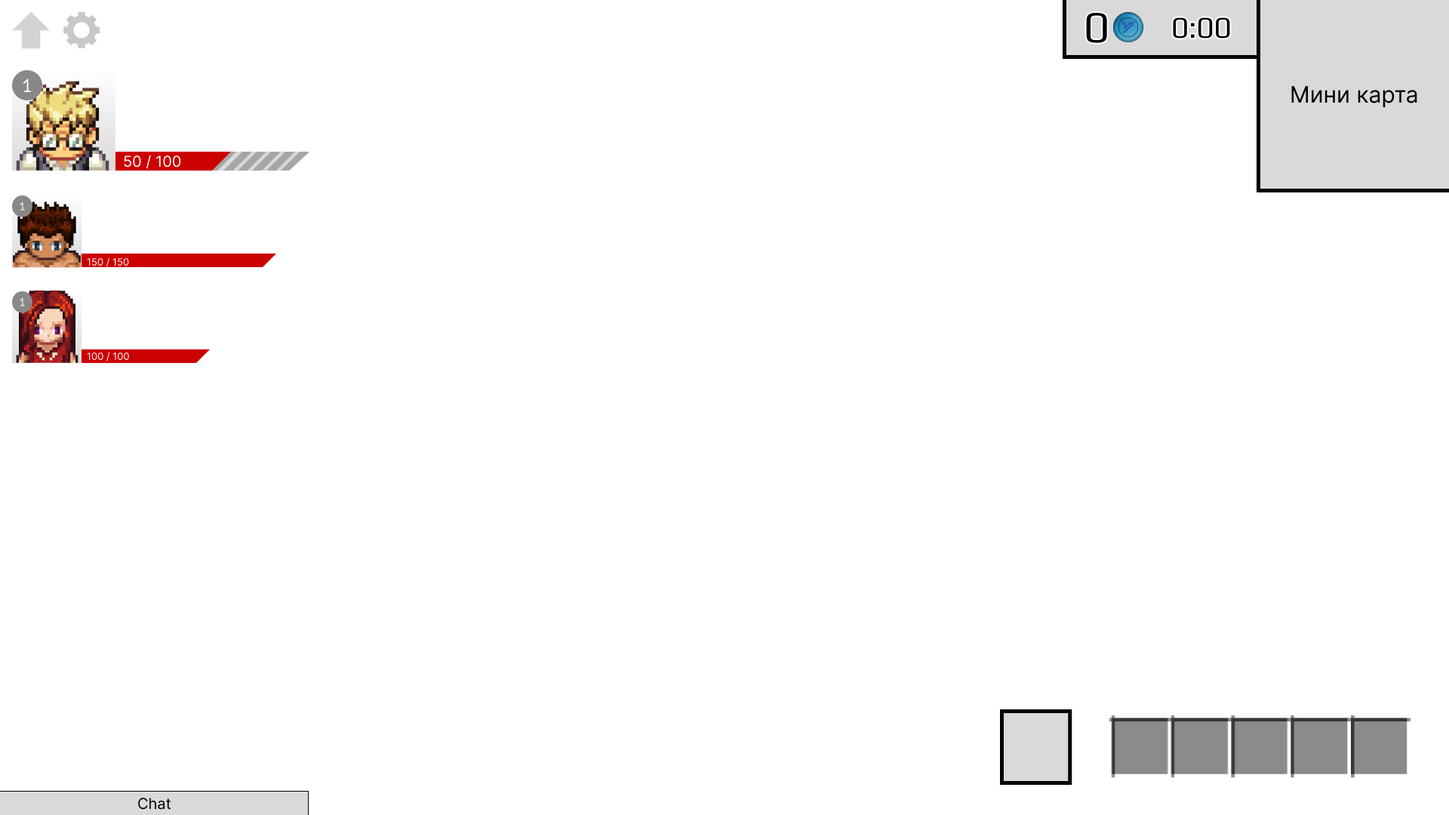
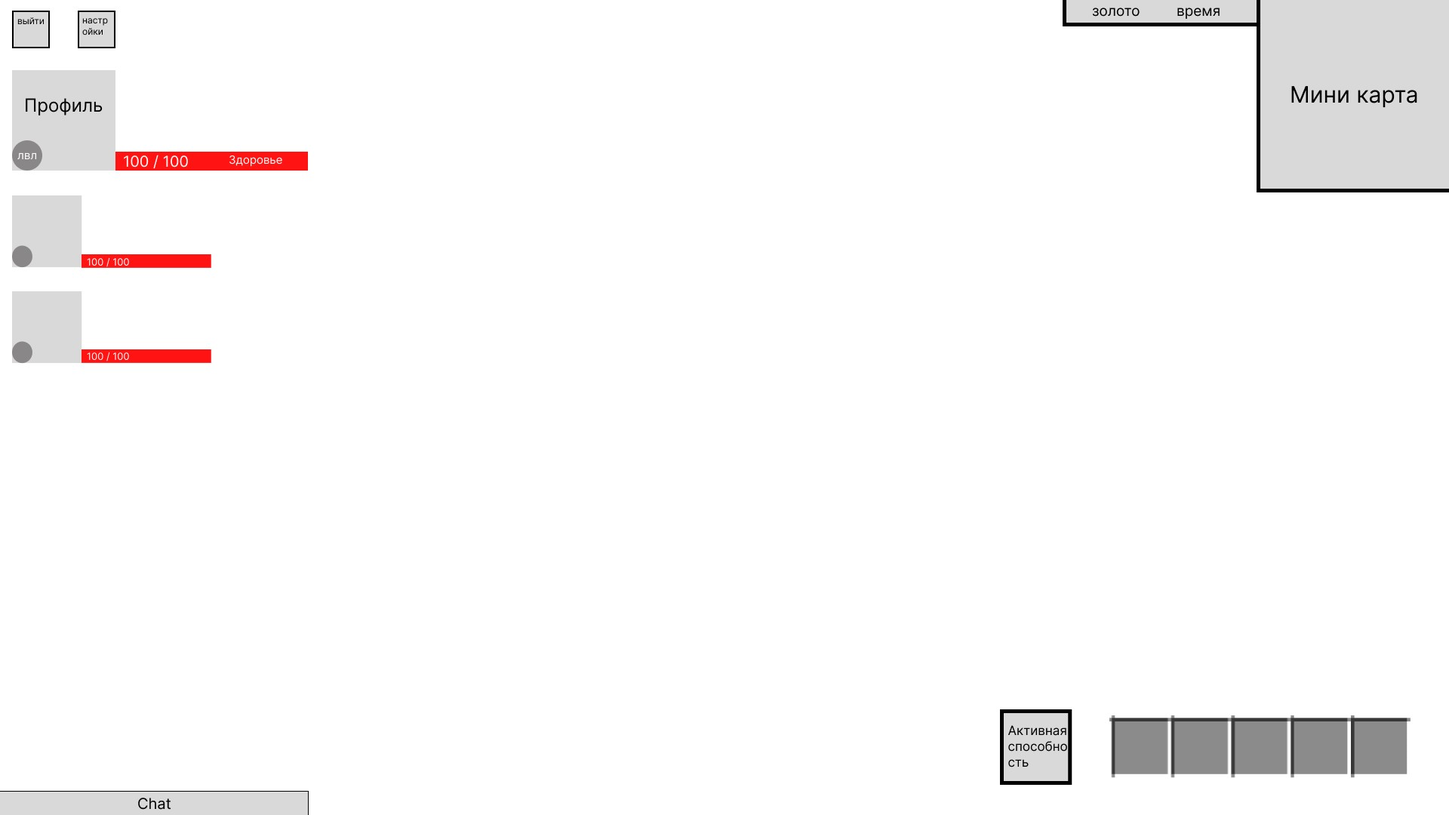
Revert "Merge pull request #16 from Smo7e/task_0"
This reverts commit 8db06d0e6c88ece269e7844d331fe062ccef9fbd, reversing
changes made to 55f844beefd23a6f4ae2d5e6fb81e23b018f7687.

Changed region(s): [[0.0, 0.0, 0.2188, 0.4583], [0.7188, 0.0, 0.875, 0.0917], [0.6875, 0.8861, 0.75, 0.9472]]

diff --git a/documents/TZ.md b/documents/TZ.md
@@ -6,28 +6,22 @@
 1. Термины и определения
 2. Цели и задачи
 3. Интерфейс
-    * 3.1. Экран входа
-    * 3.2. Экран регистрации
-    * 3.3. Главное меню
-    * 3.4. Лобби
-    * 3.5. Игровой интерфейс
+   3.1 Экран входа
+   3.2 Экран регистрации
+   3.3 Главное меню
+   3.4 Лобби
+   3.5 Игровой интерфейс
 4. Игровой процесс
-   * 4.1. Общая концепция
-   * 4.2. Геймплей
-   *  4.3. Герои
-   *  4.4. Предметы
-      * 4.4.1 Список предметов
-      * 4.4.2 Багетница
-   *  4.5. Враги
-   *  4.6. Мультиплеер
-   *  4.7. Система уровней
+   4.1 Общая концепция
+   4.2 Геймплей
+   4.3 Герои
+   4.4 Предметы
+   4.5 Враги
+   4.6 Мультиплеер
+   4.7. Система уровне
 5. Пользовательские сценарии
-        
 
-### Версия документа(обновляется по ходу разработки): 
-1.0 (15.10.23) Документ создан и наполнен
-
-1.1 (16.10.23) Исправлены баги в разделах 1, 3.2, 3.3, 5 (текущая)
+### Версия документа: 1.0 (будет дополняться по ходу разработки)
 
 ## 1. Термины и определения
 - Игрок – пользователь, вошедший в игру
@@ -37,7 +31,9 @@
 - Пара – основной противник игрока, существует несколько типов, каждый из которых привязан к одной из учебных дисциплин.
 - Препод – финальный противник каждого курса
 - Багетница – игровой магазин
-- Характеристики – индивидуальные для каждого героя параметры, влияю-=-
+- Зачетка – 
+- Характеристики – индивидуальные для каждого героя параметры, влияющие на его здоровье и урон
+- Биржа –
 - Предмет – игровой объект, которой можно получить посредством победы над противниками. Улучшает различные характеристики героев или восстанавливает здоровье
 - УДгУкоин – игровая валюта, дается за каждого побежденного противника.
 - Лобби - игровой интерфейс, который служит переходным этапом между меню и игрой. Здесь можно приобрести предметы за игровую валюту
@@ -47,7 +43,6 @@
 
 ## 2. Цели и задачи
 Цель - реализовать веб-приложение в рамках учебного проекта.
-
 Задачи:
 - Грамотно распределить задачи, чтобы соблюдать все дедлайны.
 - Реализовать клиентскую часть проекта.
@@ -71,7 +66,6 @@
 
 ![](images/TZ/image6.png)
 
-
 ### 3.2 Экран регистрации
 Состоит из четырех полей ввода:
 - Логин
@@ -85,20 +79,7 @@
 - “Уже есть аккаунт”
 
 ![](images/TZ/image4.png)
-Требования к логину:
-1. Логин должен начинаться с буквы и состоять не менее чем из 5 символов и не более чем из 12 символов.
-2. При создании логина можно использовать латинские буквы, цифры, подчеркивания (_) и точки (.).
-3. Знак @ в логине недопустим.
-4. Пробел в логине недопустим.
-5. Логин не может заканчиваться точкой.
 
-Требования к паролю:
-1. Содержит не менее 8 символов.
-2. Содержит символы, набранные в разных регистрах.
-3. Помимо латинских букв, содержит также цифры и/или специальные символы.
-4. Не является персональной информацией (имена, адреса, дата рождения, телефон и т.п.)
-
-   
 ### 3.3 Главное меню
 В левой части меню расположены кнопки:
 - Играть
@@ -106,8 +87,7 @@
 - Параметры
 
 В правой части расположен интерфейс, который отображает добавленных друзей и их текущий статус (“В сети” или “Не в сети”).
-Внизу этого интерфейса расположена кнопка "+" позволяющая добавлять в друзья других пользователей.
-Чтобы добавить друга пользователь должен нажать на эту кнопку и ввести в появившемся окне с полем ввода никнейм игрока которго хочет добавить в друзья.
+Внизу этого интерфейса расположена кнопка позволяющая добавлять в друзья других пользователей.
 
 ![](images/TZ/image5.png)
 
@@ -117,13 +97,12 @@
   - Здесь отображается текущий состав команды, выбранный каждым игроком герой, а также предметы игрока.
   - Друзья приглашаются в команду посредством кнопки “+”.
 - “Багетница”
-
-А также две кнопки “Играть” и “<-” в правом нижнем и левом верхнем углах соответственно.
+  - А также две кнопки “Играть” и “<-” в правом нижнем и левом верхнем углах соответственно.
   - “Играть” - запускает игровую сессию.
   - “<-” - возвращает назад в меню.
 
 
-![](images/TZ/image11.png)
+![](images/TZ/image7.png)
 
 ## 3.5 Игровой интерфейс
 Интерфейс игры предоставляет игроку информацию о:
@@ -163,37 +142,21 @@
 
 ### 4.3 Герои
 В игре представлено три персонажа: “Спортик”, “Технарь” и “Гуманитарий”. Каждый из них имеет собственные характеристики:
-- “Спортик”
-![](images/TZ/image9.png)
 
-- “Гуманитарий”
-![](images/TZ/image12.png)
-
-- “Технарь”
-![](images/TZ/image13.png)
-
-### 4.4 Предметы
-#### 4.4.1 Список предметов
 | Предмет                        | Тип предмета | С каких пар выпадает               | Что даёт                                           |
 | ------------------------------- | ------------ | ----------------------------------- | -------------------------------------------------- |
 | Айфон                           | Гаджет       | “Программирование”                 | Увеличивает урон по “Программированию” на 15 единиц |
 | Спортивки                       | Одежда       | “Физра”                            | Увеличивает постоянное здоровье на 15 единиц        |
-| Пиво                            | Расходник    | Багетница                          | Восстанавливает здоровье на 15 единиц, на время боя увеличивает максимальное здоровье на 20 единиц |
-| Энергос                         | Расходник    | Багетница                          | Восстанавливает здоровье на 15 единиц, увеличивает урон следующей атаки на 10 |
+| Пиво                            | Расходник    | Со всех                            | Восстанавливает здоровье на 15 единиц, на время боя увеличивает максимальное здоровье на 20 единиц |
+| Энергос                         | Расходник    | Со всех                            | Восстанавливает здоровье на 15 единиц, увеличивает урон следующей атаки на 10 |
 | Учебник                         | Книга        | “Программирование”, “Математика”, “Русский язык”, “Английский язык” | Увеличивает урон по всем парам кроме “Физра” на 5 единиц |
-| Сигареты                        | Расходник    | Багетница                          | Уменьшает текущее здоровье на 20, но на время боя увеличивает урон каждой атаки на 10 |
+| Сигареты                        | Расходник    | Со всех                            | Уменьшает текущее здоровье на 20, но на время боя увеличивает урон каждой атаки на 10 |
 | Кофта “Stone Island”            | Одежда       | “Физра”                            | Увеличивает максимальное здоровье на 15 |
 | Калькулятор                     | Гаджет       | “Математика”                       | Увеличивает урон по “Математике” на 15 единиц |
-| Словарь                         | Книга        | “Русский язык”, “Английский язык”  | Увеличивает урон по “Русскому языку” и “Английскому языку” на 10 единиц |
+| Словарь                         | Книга        | “Русский язык”, “Английский язык” | Увеличивает урон по “Русскому языку” и “Английскому языку” на 10 единиц |
 | Ноутбук                         | Гаджет       | “Программирование”, “Математика”   | Увеличивает урон по “Программированию” и “Математике” на 10 единиц |
-| Багет                           | Расходник    | Багетница                          | Восстанавливает здоровье на 25 единиц |
-| Сосиска в тесте                 | Расходник    | Багетница                          | Восстанавливает здорвоье на 15 единиц |
 
 Герой может одновременно носить с собой до 5 предметов в инвентаре
-#### 4.4.2 Багетница
-Помимо предметов, после победы над врагами, игроки также получают валюту(УДгУкоины), которую можно потратить в Багетнице
-В багетнице можно преобрести любой предмет типа “расходник” за. Стоимость любого предмета - 5 УДгУкоинов
-Любой предмет в Багетнице можно купить лишь единожды, счетчик покупок сбрасывается с переходом на новый курс.
 
 ### 4.5 Враги
 Игровые противники представлены в виде пар по учебным дисциплинам
@@ -205,7 +168,7 @@
 - "Физра"
 
 Все пары имеют одинаковые характеристики: 75 единиц здоровья и 20 урона.
-“Препод” имеет 150 здоровья и 35 урона
+
 Бой начинается как только игрок приблизится вплотную ко врагу.
 Наносить удары можно после того как дан правильный ответ на тематический вопрос (у "Программирование" вопросы про программирование, у "Математика" про математику и тд.)
 Если дан неправильный ответ, то враг наносит удар по игроку.
@@ -216,9 +179,6 @@
 ![](images/TZ/image2.png)
 
 ![](images/TZ/image1.png)
-В каждой комнате находится от 2 до 4 противников на игрока, т.е. если в команде трое игроков, то стоит ожидать от 6 до 12 врагов
-В сражении с преподом участвуют все игроки из команды, соответственно здоровье босса увеличивается прямо пропорционально количеству игроков.
-
 
 ### 4.6 Мультиплеер
 Игрок может собрать команду из трех человек, пригласив их в свое лобби из френдлиста.
@@ -232,7 +192,7 @@
 ### 4.7 Система уровней
 В игре присутствуют уровни персонажей. Каждый новый уровень дает прибавку к урону и здоровью на 5 единиц.
 Чтобы повышать уровни нужно побеждать врагов.
-Максимальный уровень героя - 5.
+Максимальный уровень героя - 5
 | Уровень | Сколько нужно победить противников для получения |
 | ------- | ----------------------------------------------- |
 | 1       | 0                                               |
@@ -241,78 +201,6 @@
 | 4       | 25                                              |
 | 5       | 40                                              |
 
-Любой босс считается за пятерых противников.
+Любой босс считается за пятерых противников
 
 ### 5. Пользовательские сценарии
-#### Вход в игру:
-Пользователь заходит на сайт.
-1. Если пользователь зарегистрирован, то он вводит логин и пароль и нажимает на кнопку входа в игру.
-2. Если пользователь не зарегистрирован, то он нажимает на кнопку регистрации. Регистрируется и выполняет шаг 1.
-
-#### Выход из игры:
-Пользователь выходит в главное меню и закрывает страницу сайта.
-
-#### Выбор героя:
-Пользователь находится в главном меню:
-1. Пользователь нажимает кнопку “Играть”.
-2. Пользователь попадает в игровое лобби.
-3. Изначально выбран случайный персонаж, чтобы его поменять пользователь нажимает на “<” или “>” слева и справа от выбранного персонажа соответственно.
-4. Когда пользователь выбрал нужного персонажа он нажимает “Играть” или “Готов” в зависимости от того, находится ли он в команде или играет в одиночку.
-
-#### Добавить друга:
-Взаимодействие с френдлистом:
-1. Пользователь нажимает на кнопку “+” в нижней части интерфейса.
-2. Пользователь пишет в появившемся поле ввода никнейм игрока, которого пользователь хочет добавить в друзья.
-3. Пользователь нажимает кнопку Enter на клавиатуре.
-4. Игрок, которого пользователь добавил в друзья, сперва должен принять запрос, после чего оба пользователя будут отображаться друг у друга во френдлисте.
-
-#### Пригласить друга в свое лобби:
-Пользователь находиться в лобби:
-1. Пользователь нажимает кнопку “+” в пустом слоте команды.
-2. Пользователь выбирает друга которого хочет пригласить в команду из появившегося окна.
-3. Друг появится в команде пользователя после того как примет приглашение вступить в команду.
-
-#### Выход из лобби
-Пользователь находится в лобби:
-1. Чтобы покинуть лобби другого игрока, пользвоатель нажимает кнопку “<-” в левом верхнем углу экрана
-2. Пользователь перемещается в главное меню
-
-#### Покупка предметов в Багетнице:
-Пользователь находится в лобби, взаимодействует с интерфейсом багентицы:
-1. Пользователь наводит курсор на предмет который хочет приобрести.
-2. Пользователь нажимает ЛКМ по желаемому предмету.
-3. Если у пользователя достаточно игровой валюты, и есть свободное место в инвентаре, то предмет покупается.
-4. Текущий баланс валюты пользователя отображется в верхней части интерфейса.
-
-#### Старт игры:
-Пользователь взаимодействует с игровым лобби:
-Если пользователь находится в лобби один, то нажимает кнопку “Играть”.
-Если пользователей несколько, кнопка “Играть” меняется на “Готов”, игра начнется как только все пользователи нажмут кнопку “Готов”.
-
-#### Взаимодействие со врагами:
-Пользователь управляет своим игровым персонажем(с помощью клавиш wasd):
-1. Пользователь подходит вплотную ко врагу.
-2. Перед пользователем появляется окно с вопросом и полем ввода для ответа / вариантами ответов.
-3. Пользователь вводит ответ в поле для ответа/выбирает нужные вариант ответа.
-4. В случае правильного ответа пользователь наносит удар врагу, в противном случае враг наносит удар по пользователю
-
-#### Переход на следующий курc:
-Пользователь одержал победу над финальным боссом курса:
-1. Пользователь отправляется в лобби.
-2. Всей команде предлагается перейти на следующий курс.
-3. После перехода вернуться назад можно только если все герои погибнут.
-
-#### Завершение игры 
-Пользователь одержал победу над финальным боссом последнего курса:
-1. Перед пользователем появляется экран который информирует его о завершении игры.
-2. На экране пользователь может также узнать информацию о: времени прохождения и количестве побежденных врагов.
-3. Пользователь нажимает кнопку “Далее” после чего попадает в главное меню.
-
-
-
-
-
-
-
-
-
